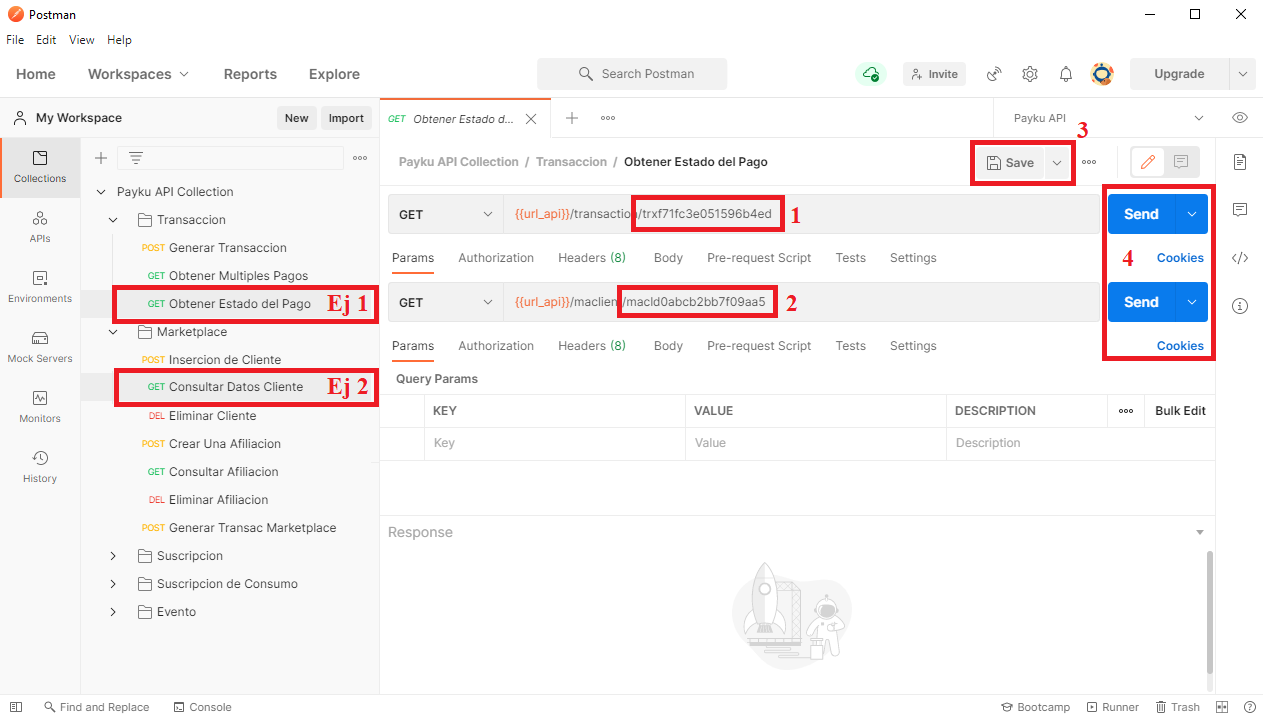
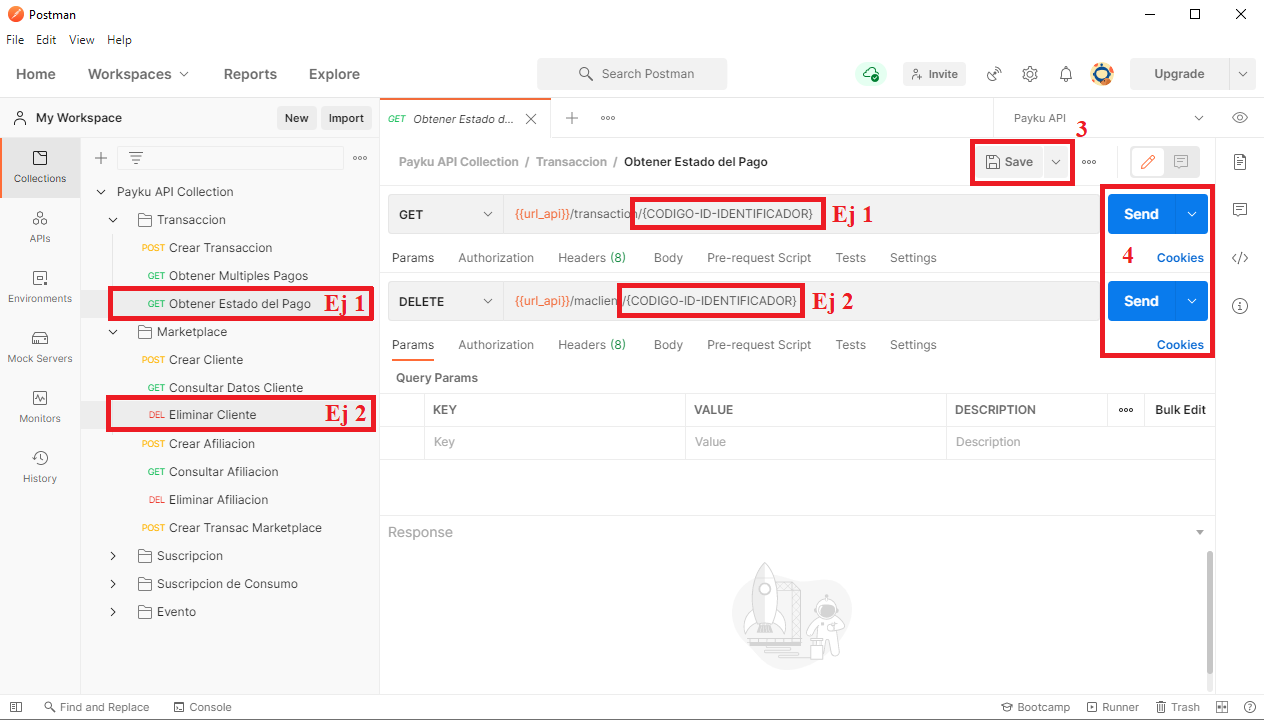
update

diff --git a/readme.md b/readme.md
@@ -1,49 +1,51 @@
 ## -Postman Payku API Collection-
 
-#### Introducción:
+------------
+
+#### Introducción.
 -En Payku ahora te ofrecemos una colección en Postman el cual te permite trabajar a través de una extensión en el navegador o como aplicación desde tu sistema, para un uso rápido y fácil de nuestras API REST, ideal tanto para desarrolladores como usuarios.
 -De igual forma proporcionamos un entorno personalizado, que se puede importar cómodamente para aplicar modificaciones y usarlo con sus claves secretas.
-Para obtener más información acerca de la documentación Payku puede ingresar a [Documentación](https://docs.payku.cl/ "Documentación").
+Para obtener más información acerca de la documentación Payku puede ingresar a <a href="https://docs.payku.cl/" target="_blank">Documentación</a>.
 
 ------------
 
-#### Importar Archivos a la Aplicación:
-1. Descarga los archivos **JSON** de las colecciones Payku API. Puedes obtener esos archivos {aqui}.
+#### Importar Archivos a la Aplicación.
+1. Descarga los archivos **JSON** de las colecciones Payku API. Puedes obtener esos archivos [{Aquí}](https://github.com/Paykucl/doc-apirest-postman/tree/master/collection).
 
 2. Una vez descargado los archivos, abra la aplicación Postman y diríjase a la pestaña (**Workspaces**) en la parte superior izquierda.
-//imagen.1 -> entrar a workspaces
+![](https://github.com/Paykucl/doc-apirest-postman/blob/master/img/imagen1.png?raw=true)
 
 3. Importe la colección y ambiente a la aplicación Postman haciendo click izquierdo en el (**Import**) ubicado en la parte superior izquierda y luego click en (**Upload Files**) en la página emergente, posteriormente seleccione los archivos descargados.
-//imagen.2 -> click a import
+![](https://github.com/Paykucl/doc-apirest-postman/blob/master/img/imagen2.png?raw=true)
 
 -Una vez realizado el proceso contará con los archivos JSON de la colección en su aplicación los cuales tendrán diferentes folders y request que podrá modificar cómodamente.
 
 ------------
 
-#### Validar Autorización con Tokens Personales:
+#### Validar Autorización con Tokens Personales.
 1. Una vez contamos con los tokens de integración facilitados por Payku desde su registro, procedemos a ingresar en el ambiente de la colección.
 
 2. Nos ubicaremos en la parte izquierda de la aplicación haciendo click izquierdo en (**Enviroments**) y luego click izquierdo en el folder de (**Payku API**). Posterior a esto copiaremos los tokens en las variables prediseñadas, correspondiendo una al token público y una al token privado y daremos click izquierdo en (**Save**).
-//imagen.3 -> cambio de token
+![](https://github.com/Paykucl/doc-apirest-postman/blob/master/img/imagen3.png?raw=true)
 
 -Realizado este proceso la aplicación Postman rellenara de forma automática la autorización en todos los folders y request de la colección.
 
 ------------
 
-#### Modificar Datos para Crear/Generar/Insertar:
+#### Modificar Datos para POST y PUT.
 1. Ya con la autorización registrada ingresamos en cualquier request (**Post**) ubicados en los folders de la colección. Para acceder hacemos click izquierdo en (**Collections**) ubicado en la parte izquierda de la aplicación y luego desplegamos el folder al cual queremos ingresar en el icono ( **\/** ) con click izquierdo y seleccionamos el request deseado.
-//imagen.4 -> selección post
+![](https://github.com/Paykucl/doc-apirest-postman/blob/master/img/imagen4.png?raw=true)
 
 2. Una vez seleccionado el (**Post**) deseado hacemos click izquierdo en (**Pre-request Script**) ubicado en la parte central de la aplicación y tendremos acceso al cuerpo modificable. Una vez modificado los datos hacemos click izquierdo en (Save) y luego en (Send) para transmitir los datos.
-//imagen.5 -> modificar información
+![](https://github.com/Paykucl/doc-apirest-postman/blob/master/img/imagen5.png?raw=true)
 
 ------------
 
-#### Obtener Datos en un Proceso Especifico:
-1. En este proceso ingresaremos en un request (**Get**) de obtención específica, luego cambiamos el (**Código ID**) valido para la solicitud que se desea obtener según el request seleccionado.
+#### Modificar Datos Especifico GET y DEL.
+1. En este proceso ingresaremos en un request (**Get**) de obtención específica o (**Del**), luego cambiamos el (**Código ID**) valido para la solicitud que se desea obtener según el request seleccionado.
 2. Copiará el (**ID**) valido de la solicitud requerida y luego se pegara en la barra url a partir del ( **/** ) como se muestra en el ejemplo 1 y 2. Finalmente hacemos click izquierdo en (**Save**) y luego en (**Send**).
-//imagen.6 -> obtener datos
+![](https://github.com/Paykucl/doc-apirest-postman/blob/master/img/imagen6.png?raw=true)
 
 ------------
 
--Para mayor información sobre la aplicación Postman también puede acceder a su documentación ingresando en [Doc Postman](https://learning.postman.com/docs/getting-started/introduction/ "Doc Postman").
+-Para mayor información sobre la aplicación Postman también puede acceder a su documentación ingresando en <a href="https://learning.postman.com/docs/getting-started/introduction/" target="_blank">Doc Postman</a>.
